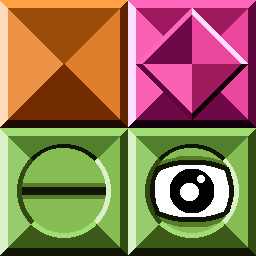
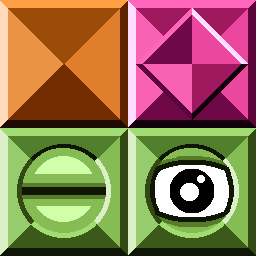
Lava eater & three more stages

Changed region(s): [[0.125, 0.5938, 0.375, 0.6875], [0.125, 0.7812, 0.3438, 0.875]]

diff --git a/src/application/gamefield/Crate.java b/src/application/gamefield/Crate.java
@@ -19,6 +19,10 @@ public class Crate extends NonPlayerFieldObject {
 	
 	/** Source X */
 	protected int sx = 0;
+	/** Source Y */
+	protected int sy = 0;
+	/** Die if in lava */
+	protected boolean dieInLava = true;
 	
 
 	/**
@@ -30,6 +34,19 @@ public class Crate extends NonPlayerFieldObject {
 		
 		// Get assets
 		bmpMovable = assets.getBitmap("movable");
+	}
+	
+	
+	/**
+	 * Check if the tile is good for moving
+	 * @param stage Stage
+	 * @param x X coordinate
+	 * @param y Y coordinate
+	 * @return True, if "good" (i.e not solid or lava)
+	 */
+	protected boolean freeTileCheck(Stage stage, int x, int y) {
+		
+		return !stage.isSolidExcludeLava(x, y);
 	}
 	
 	
@@ -72,7 +89,7 @@ public class Crate extends NonPlayerFieldObject {
 		}
 		
 		// Check if a free tile
-		if(stage.isSolidExcludeLava(t.x, t.y))
+		if(!freeTileCheck(stage, t.x, t.y))
 			doMove = false;
 		
 		// If no obstacles, move
@@ -97,6 +114,12 @@ public class Crate extends NonPlayerFieldObject {
 	
 	
 	/**
+	 * Update event
+	 */
+	protected void updateEvent(float tm) { }
+	
+	
+	/**
 	 * Constructor
 	 * @param pos Target position
 	 */
@@ -109,6 +132,7 @@ public class Crate extends NonPlayerFieldObject {
 	@Override
 	public void update(Gamepad vpad, TimeManager tman, Stage stage, float tm) {
 		
+		// If not existing, update death
 		if(!exist) {
 			
 			updateDeath(tm);
@@ -125,6 +149,9 @@ public class Crate extends NonPlayerFieldObject {
 			// Death event
 			// deathEvent(stage);
 		}
+		
+		// Call update event
+		updateEvent(tm);
 	}
 	
 
@@ -134,12 +161,12 @@ public class Crate extends NonPlayerFieldObject {
 		if(!exist) {
 		
 			// If dying, draw death
-			drawDeath(g, bmpMovable, sx, 0, 128, 128, 0.0f);
+			drawDeath(g, bmpMovable, sx, sy, 128, 128, 0.0f);
 
 			return;
 		}
 		
-		g.drawScaledBitmapRegion(bmpMovable,sx,0,128,128,
+		g.drawScaledBitmapRegion(bmpMovable,sx,sy,128,128,
 				vpos.x, vpos.y, scaleValue.x, scaleValue.y, Flip.NONE);
 			
 	}
@@ -172,7 +199,7 @@ public class Crate extends NonPlayerFieldObject {
 		
 		// If lava, die
 		int tile = stage.getTile(pos.x, pos.y);
-		if(tile == 3 || tile == 10) {
+		if(dieInLava && (tile == 3 || tile == 10) ) {
 			
 			stage.updateTileData(pos.x, pos.y, 0);
 			stage.updateSolidTileData(pos.x, pos.y, 0);
@@ -183,8 +210,15 @@ public class Crate extends NonPlayerFieldObject {
 		}
 		else {
 			
+			// And remove lava, if needed
+			if(!dieInLava && stage.isLava(pos.x, pos.y)) {
+							
+				stage.updateTileData(pos.x, pos.y, 0);
+			}
+			
 			// Otherwise, update solid data
 			stage.updateSolidTileData(pos.x, pos.y, 2);
+			
 		}
 	};
 }

diff --git a/src/application/gamefield/LavaEater.java b/src/application/gamefield/LavaEater.java
@@ -1,0 +1,68 @@
+package application.gamefield;
+
+import core.types.Point;
+
+/**
+ * A crate that "eats" lava
+ * @author Jani Nykänen
+ *
+ */
+public class LavaEater extends Crate {
+
+	/** Eye close timer */
+	private static final float EYE_CLOSE_TIME = 6.0f;
+	
+	
+	/** Eye close timer. Required to keep the eye open
+	 * even if moving
+	 */
+	protected float eyeCloseTimer = 0.0f;
+	
+	
+	@Override
+	protected boolean freeTileCheck(Stage stage, int x, int y) {
+		
+		return stage.isLava(x, y);
+	}
+	
+	
+	@Override
+	protected void updateEvent(float tm) {
+		
+		//  Handle eye blinking
+		if(!moving && eyeCloseTimer > 0.0f) {
+			
+			eyeCloseTimer -= 1.0f * tm;
+			
+			if(eyeCloseTimer <= 0.0f) {
+				
+				sx = 0;
+			}
+		}
+		else if(eyeCloseTimer <= 0.0f) {
+			
+			if(sx > 0 && !moving) {	
+			
+				eyeCloseTimer = EYE_CLOSE_TIME;
+			}
+			else if(moving) {
+				
+				sx = 128;
+			}
+		}
+	}
+	
+	
+	/**
+	 * Constructor
+	 * @param pos Position
+	 */
+	public LavaEater(Point pos) {
+		
+		super(pos);
+		dieInLava = false;
+		sx = 0;
+		sy = 128;
+	}
+
+}

diff --git a/src/application/gamefield/Stage.java b/src/application/gamefield/Stage.java
@@ -723,6 +723,19 @@ public class Stage {
 	
 	
 	/**
+	 * Is the tile in (X,Y) lava
+	 * @param x X coordinate
+	 * @param y Y coordinate
+	 * @return True or false
+	 */
+	public boolean isLava(int x, int y) {
+		
+		int t = getSolidTile(x,y);
+		return t == 3 || t == 10;
+	}
+	
+	
+	/**
 	 * Get a tile value in the current tile data array
 	 * @param x X coordinate
 	 * @param y Y coordinate

diff --git a/src/application/gamefield/ObjectManager.java b/src/application/gamefield/ObjectManager.java
@@ -109,6 +109,13 @@ public class ObjectManager {
 				objects.add(new LavaContainer(p, data[i] == 14));
 				break;
 				
+			// Lava eater
+			case 15:
+				
+				objects.add(new LavaEater(p));
+				stage.updateTileData(x, y, 2);
+				break;
+				
 			// Player
 			case 17:
 				player = new Player(p);
